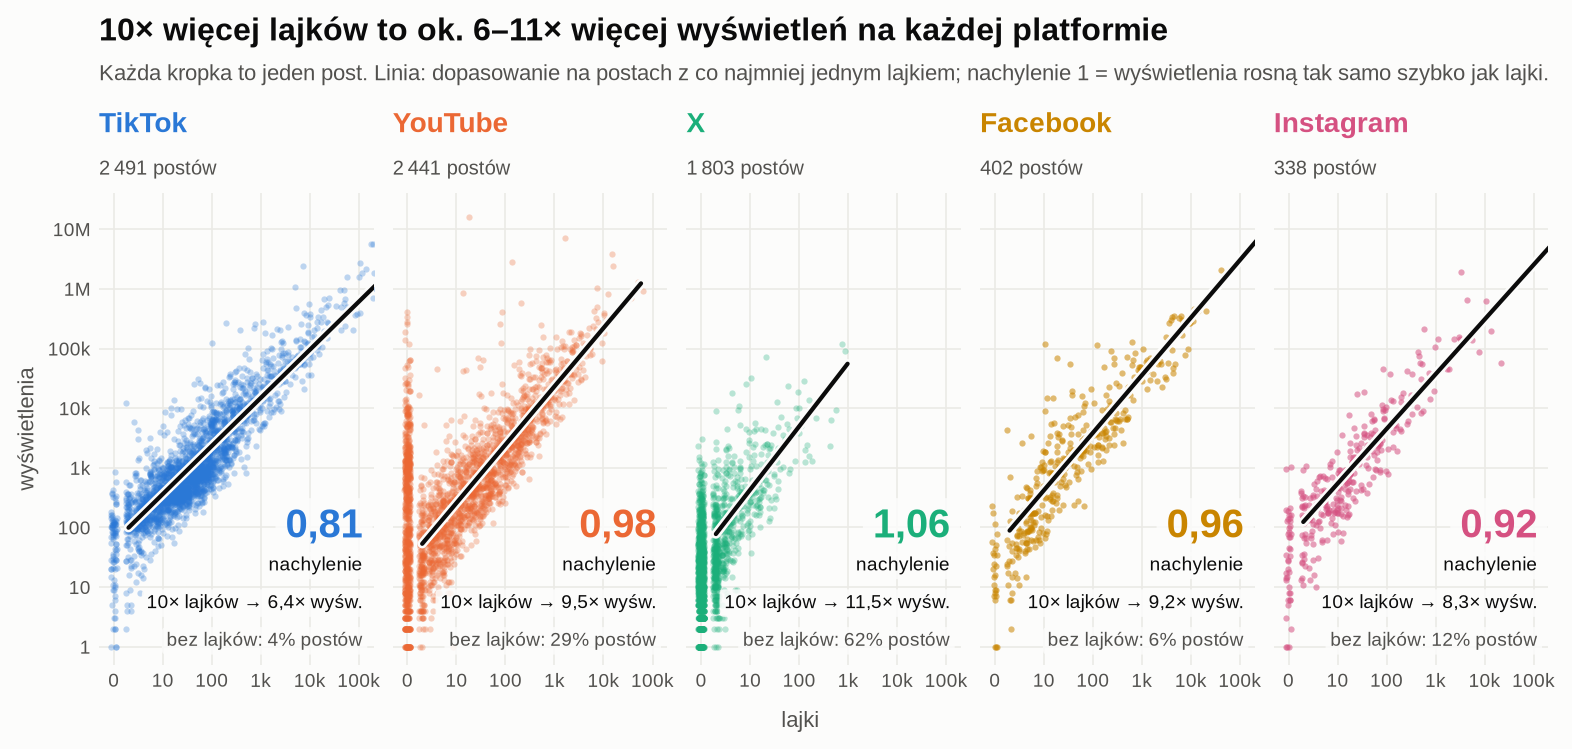
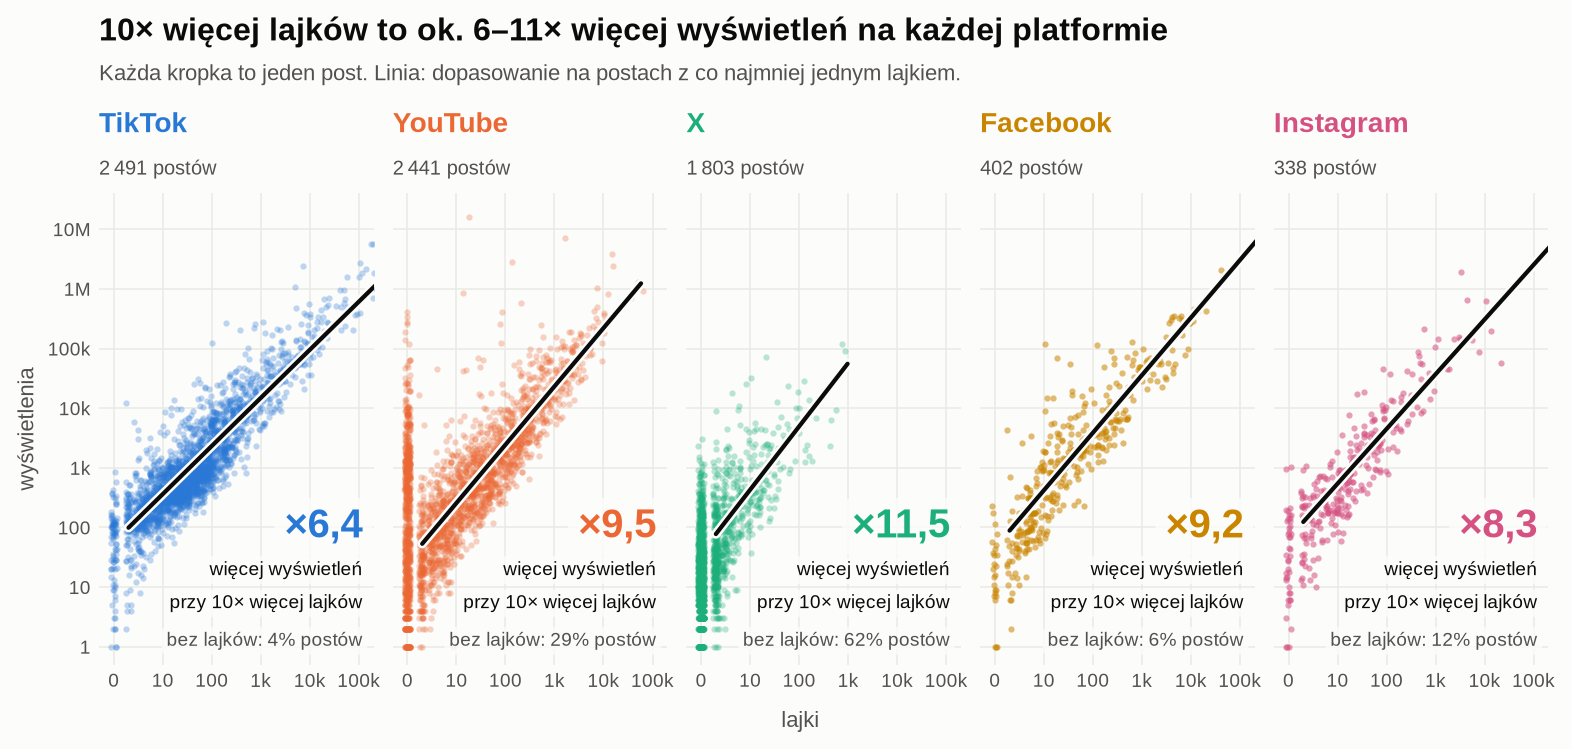
Label data overview panels with growth factor instead of slope

diff --git a/src/data_overview.py b/src/data_overview.py
@@ -40,11 +40,11 @@ COL = {"tiktok": "#2a78d6", "youtube": "#eb6834", "twitter": "#1baf7a", "faceboo
 
 def figure(d, rows, lang):
     T = {"en": ("10× more likes means about 6–11× more views on every platform",
-                "Each dot is one post. Line: fit on posts with at least one like; slope 1 = views grow as fast as likes.",
-                "likes", "views", "slope", "posts", "10× likes → {f}× views", "no likes: {z} of posts"),
+                "Each dot is one post. Line: fit on posts with at least one like.",
+                "likes", "views", "more views", "posts", "for 10× more likes", "no likes: {z} of posts"),
          "pl": ("10× więcej lajków to ok. 6–11× więcej wyświetleń na każdej platformie",
-                "Każda kropka to jeden post. Linia: dopasowanie na postach z co najmniej jednym lajkiem; nachylenie 1 = wyświetlenia rosną tak samo szybko jak lajki.",
-                "lajki", "wyświetlenia", "nachylenie", "postów", "10× lajków → {f}× wyśw.", "bez lajków: {z} postów")}[lang]
+                "Każda kropka to jeden post. Linia: dopasowanie na postach z co najmniej jednym lajkiem.",
+                "lajki", "wyświetlenia", "więcej wyświetleń", "postów", "przy 10× więcej lajków", "bez lajków: {z} postów")}[lang]
     num = lambda v: f"{v:,.0f}".replace(",", "\u2009")
     dec = lambda v, k=2: f"{v:.{k}f}".replace(".", "," if lang == "pl" else ".")
     from matplotlib import font_manager as fm
@@ -64,9 +64,9 @@ def figure(d, rows, lang):
         a.plot(xx, ic + sl * xx, color=SURF, lw=4, solid_capstyle="round"); a.plot(xx, ic + sl * xx, color=INK, lw=1.8, solid_capstyle="round")
         a.text(0, 1.13, LAB[p], transform=a.transAxes, fontsize=12, color=COL[p], fontweight="bold")
         a.text(0, 1.04, f"{num(len(s))} {T[5]}", transform=a.transAxes, fontsize=8.5, color=MUTED)
-        a.text(.96, .27, dec(sl), transform=a.transAxes, ha="right", fontsize=17, fontweight="bold", color=COL[p], bbox=box)
-        a.text(.96, .2, T[4], transform=a.transAxes, ha="right", fontsize=8, color=INK, bbox=box)
-        a.text(.96, .12, T[6].format(f=dec(10 ** sl, 1)), transform=a.transAxes, ha="right", fontsize=8, color=INK, bbox=box)
+        a.text(.96, .27, "×" + dec(10 ** sl, 1), transform=a.transAxes, ha="right", fontsize=17, fontweight="bold", color=COL[p], bbox=box)
+        a.text(.96, .19, T[4], transform=a.transAxes, ha="right", fontsize=8, color=INK, bbox=box)
+        a.text(.96, .12, T[6], transform=a.transAxes, ha="right", fontsize=8, color=INK, bbox=box)
         a.text(.96, .04, T[7].format(z=f"{r['share with 0 likes']:.0%}"), transform=a.transAxes, ha="right", fontsize=8, color=MUTED, bbox=box)
         a.grid(color="#ebeae6", lw=.7); a.set_axisbelow(True)
         [a.spines[q].set_visible(False) for q in a.spines]

diff --git a/docs/pl/preprint_draft_intro.md b/docs/pl/preprint_draft_intro.md
@@ -63,8 +63,8 @@ sprawdził i poprawił.
 
 Tabela 1 i rysunek 1 podsumowują dane, na których oceniamy modele. Wyświetlenia na jeden post obejmują około siedmiu
 rzędów wielkości, a typowy post na X ma ich kilkadziesiąt razy mniej niż na Facebooku. Mediana liczby wyświetleń
-na jeden lajk różni się mniej: od 22 na X do 49 na Instagramie. Na każdej platformie wyświetlenia rosną prawie
-proporcjonalnie do lajków (nachylenie w skali log 0,81–1,06), ale na X aż 62% postów nie ma ani jednego lajka.
+na jeden lajk różni się mniej: od 22 na X do 49 na Instagramie. Na każdej platformie post z 10 razy większą
+liczbą lajków ma od 6 do 11 razy więcej wyświetleń, ale na X aż 62% postów nie ma ani jednego lajka.
 
 **Tabela 1.** Dane według platformy. Posty z wyświetleniami to te, które trafiają do modelu.
 
@@ -79,7 +79,8 @@ proporcjonalnie do lajków (nachylenie w skali log 0,81–1,06), ale na X aż 62
 ![Rysunek 1](figures/data_overview_pl.png)
 
 **Rysunek 1.** Wyświetlenia a lajki dla każdego posta, osobno dla każdej platformy (obie osie w skali logarytmicznej).
-Linia: dopasowanie prostej na postach z co najmniej jednym lajkiem; liczba w rogu to jej nachylenie. Posty bez lajków
+Linia: dopasowanie prostej na postach z co najmniej jednym lajkiem; liczba w rogu mówi, ile razy więcej wyświetleń
+ma post z 10× większą liczbą lajków. Posty bez lajków
 leżą przy zerze na osi poziomej. TikTok, YouTube i X: eksport Brand24; Facebook i Instagram: nasz odczyt.
 
 Wszystkie modele oceniamy na markach, których nie widziały w treningu (5-krotna walidacja krzyżowa z podziałem po
